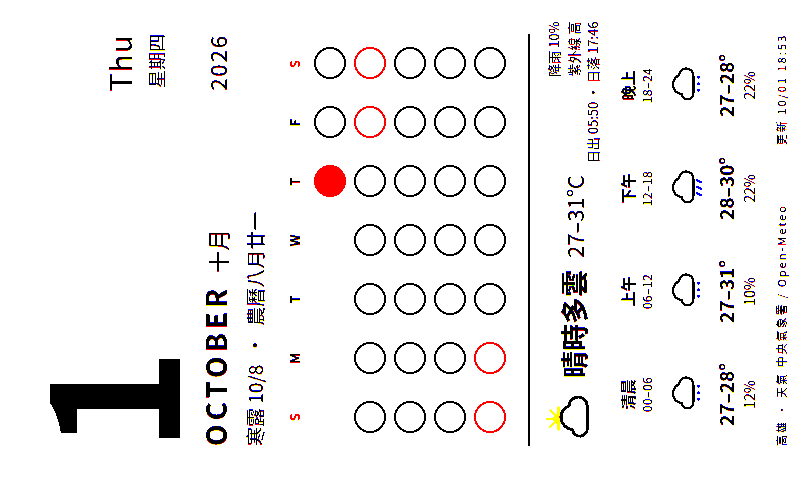
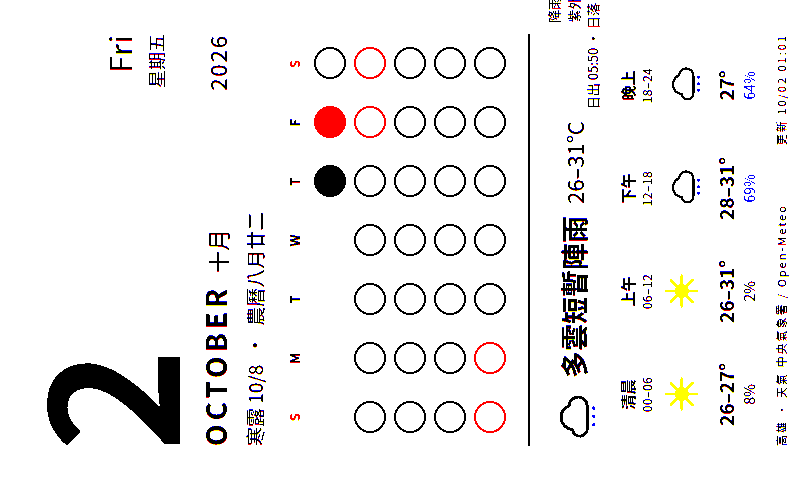
deploy: cf7d1051eb6821bc691ba0ade4beb12cdf9fe0ef

diff --git a/calendar.html b/calendar.html
@@ -47,16 +47,16 @@
 </style></head>
 <body><div class="page">
   <div class="head">
-    <div class="num">1</div>
-    <div class="wd"><div class="en">Thu</div><div class="zh">星期四</div></div>
+    <div class="num">2</div>
+    <div class="wd"><div class="en">Fri</div><div class="zh">星期五</div></div>
   </div>
   <div class="month"><span class="en">OCTOBER</span><span class="zh">十月</span><span class="yr">2026</span></div>
-  <div class="today"><span class="lunar">寒露 10/8</span><span>·</span><span class="lunar">農曆八月廿一</span></div>
-  <div class="grid"><div class="h we">S</div><div class="h">M</div><div class="h">T</div><div class="h">W</div><div class="h">T</div><div class="h">F</div><div class="h we">S</div><div class="dot empty"></div><div class="dot empty"></div><div class="dot empty"></div><div class="dot empty"></div><div class="dot now" title="1"></div><div class="dot future" title="2"></div><div class="dot future" title="3"></div><div class="dot future" title="4"></div><div class="dot future" title="5"></div><div class="dot future" title="6"></div><div class="dot future" title="7"></div><div class="dot future" title="8"></div><div class="dot future hol" title="9"></div><div class="dot future hol" title="10"></div><div class="dot future" title="11"></div><div class="dot future" title="12"></div><div class="dot future" title="13"></div><div class="dot future" title="14"></div><div class="dot future" title="15"></div><div class="dot future" title="16"></div><div class="dot future" title="17"></div><div class="dot future" title="18"></div><div class="dot future" title="19"></div><div class="dot future" title="20"></div><div class="dot future" title="21"></div><div class="dot future" title="22"></div><div class="dot future" title="23"></div><div class="dot future" title="24"></div><div class="dot future hol" title="25"></div><div class="dot future hol" title="26"></div><div class="dot future" title="27"></div><div class="dot future" title="28"></div><div class="dot future" title="29"></div><div class="dot future" title="30"></div><div class="dot future" title="31"></div></div>
+  <div class="today"><span class="lunar">寒露 10/8</span><span>·</span><span class="lunar">農曆八月廿二</span></div>
+  <div class="grid"><div class="h we">S</div><div class="h">M</div><div class="h">T</div><div class="h">W</div><div class="h">T</div><div class="h">F</div><div class="h we">S</div><div class="dot empty"></div><div class="dot empty"></div><div class="dot empty"></div><div class="dot empty"></div><div class="dot past" title="1"></div><div class="dot now" title="2"></div><div class="dot future" title="3"></div><div class="dot future" title="4"></div><div class="dot future" title="5"></div><div class="dot future" title="6"></div><div class="dot future" title="7"></div><div class="dot future" title="8"></div><div class="dot future hol" title="9"></div><div class="dot future hol" title="10"></div><div class="dot future" title="11"></div><div class="dot future" title="12"></div><div class="dot future" title="13"></div><div class="dot future" title="14"></div><div class="dot future" title="15"></div><div class="dot future" title="16"></div><div class="dot future" title="17"></div><div class="dot future" title="18"></div><div class="dot future" title="19"></div><div class="dot future" title="20"></div><div class="dot future" title="21"></div><div class="dot future" title="22"></div><div class="dot future" title="23"></div><div class="dot future" title="24"></div><div class="dot future hol" title="25"></div><div class="dot future hol" title="26"></div><div class="dot future" title="27"></div><div class="dot future" title="28"></div><div class="dot future" title="29"></div><div class="dot future" title="30"></div><div class="dot future" title="31"></div></div>
   <div class="wx"><div class="line">
-    <div class="wxhead"><svg viewBox="0 0 64 68" xmlns="http://www.w3.org/2000/svg"><g transform="translate(12 -4) scale(.6)"><circle cx="32" cy="32" r="11" fill="#f5c400"/><g stroke="#f5c400" stroke-width="4" stroke-linecap="round"><line x1="32" y1="32" x2="32" y2="8" transform="rotate(0 32 32)"/><line x1="32" y1="32" x2="32" y2="8" transform="rotate(45 32 32)"/><line x1="32" y1="32" x2="32" y2="8" transform="rotate(90 32 32)"/><line x1="32" y1="32" x2="32" y2="8" transform="rotate(135 32 32)"/><line x1="32" y1="32" x2="32" y2="8" transform="rotate(180 32 32)"/><line x1="32" y1="32" x2="32" y2="8" transform="rotate(225 32 32)"/><line x1="32" y1="32" x2="32" y2="8" transform="rotate(270 32 32)"/><line x1="32" y1="32" x2="32" y2="8" transform="rotate(315 32 32)"/></g></g><path d="M20 50h26a11 11 0 0 0 1-22 15 15 0 0 0-29 4 9 9 0 0 0 2 18z" fill="#fff" stroke="#000" stroke-width="3.5" stroke-linejoin="round"/></svg><span class="desc">晴時多雲</span><span class="temp">27–31°C</span>
-      <div class="meta">降雨 10%<br>紫外線 高<br>日出 05:50 · 日落 17:46</div></div>
-    <div class="slots"><div class="slot"><div class="n">清晨</div><div class="hrs">00–06</div><svg viewBox="0 0 64 68" xmlns="http://www.w3.org/2000/svg"><path d="M20 50h26a11 11 0 0 0 1-22 15 15 0 0 0-29 4 9 9 0 0 0 2 18z" fill="#fff" stroke="#000" stroke-width="3.5" stroke-linejoin="round"/><g fill="#0040ff"><circle cx="24" cy="58" r="2.2"/><circle cx="34" cy="58" r="2.2"/><circle cx="44" cy="58" r="2.2"/></g></svg><div class="t">27–28°</div><div class="p dry">12%</div></div><div class="slot"><div class="n">上午</div><div class="hrs">06–12</div><svg viewBox="0 0 64 68" xmlns="http://www.w3.org/2000/svg"><path d="M20 50h26a11 11 0 0 0 1-22 15 15 0 0 0-29 4 9 9 0 0 0 2 18z" fill="#fff" stroke="#000" stroke-width="3.5" stroke-linejoin="round"/><g fill="#0040ff"><circle cx="24" cy="58" r="2.2"/><circle cx="34" cy="58" r="2.2"/><circle cx="44" cy="58" r="2.2"/></g></svg><div class="t">27–31°</div><div class="p dry">10%</div></div><div class="slot"><div class="n">下午</div><div class="hrs">12–18</div><svg viewBox="0 0 64 68" xmlns="http://www.w3.org/2000/svg"><path d="M20 50h26a11 11 0 0 0 1-22 15 15 0 0 0-29 4 9 9 0 0 0 2 18z" fill="#fff" stroke="#000" stroke-width="3.5" stroke-linejoin="round"/><g stroke="#0040ff" stroke-width="3.5" stroke-linecap="round"><line x1="24" y1="55" x2="21" y2="62"/><line x1="34" y1="55" x2="31" y2="62"/><line x1="44" y1="55" x2="41" y2="62"/></g></svg><div class="t">28–30°</div><div class="p dry">22%</div></div><div class="slot"><div class="n">晚上</div><div class="hrs">18–24</div><svg viewBox="0 0 64 68" xmlns="http://www.w3.org/2000/svg"><path d="M20 50h26a11 11 0 0 0 1-22 15 15 0 0 0-29 4 9 9 0 0 0 2 18z" fill="#fff" stroke="#000" stroke-width="3.5" stroke-linejoin="round"/><g fill="#0040ff"><circle cx="24" cy="58" r="2.2"/><circle cx="34" cy="58" r="2.2"/><circle cx="44" cy="58" r="2.2"/></g></svg><div class="t">27–28°</div><div class="p dry">22%</div></div></div>
+    <div class="wxhead"><svg viewBox="0 0 64 68" xmlns="http://www.w3.org/2000/svg"><path d="M20 50h26a11 11 0 0 0 1-22 15 15 0 0 0-29 4 9 9 0 0 0 2 18z" fill="#fff" stroke="#000" stroke-width="3.5" stroke-linejoin="round"/><g fill="#0040ff"><circle cx="24" cy="58" r="2.2"/><circle cx="34" cy="58" r="2.2"/><circle cx="44" cy="58" r="2.2"/></g></svg><span class="desc">多雲短暫陣雨</span><span class="temp">26–31°C</span>
+      <div class="meta">降雨 30%<br>紫外線 高<br>日出 05:50 · 日落 17:45</div></div>
+    <div class="slots"><div class="slot"><div class="n">清晨</div><div class="hrs">00–06</div><svg viewBox="0 0 64 68" xmlns="http://www.w3.org/2000/svg"><circle cx="32" cy="32" r="11" fill="#f5c400"/><g stroke="#f5c400" stroke-width="4" stroke-linecap="round"><line x1="32" y1="32" x2="32" y2="8" transform="rotate(0 32 32)"/><line x1="32" y1="32" x2="32" y2="8" transform="rotate(45 32 32)"/><line x1="32" y1="32" x2="32" y2="8" transform="rotate(90 32 32)"/><line x1="32" y1="32" x2="32" y2="8" transform="rotate(135 32 32)"/><line x1="32" y1="32" x2="32" y2="8" transform="rotate(180 32 32)"/><line x1="32" y1="32" x2="32" y2="8" transform="rotate(225 32 32)"/><line x1="32" y1="32" x2="32" y2="8" transform="rotate(270 32 32)"/><line x1="32" y1="32" x2="32" y2="8" transform="rotate(315 32 32)"/></g></svg><div class="t">26–27°</div><div class="p dry">8%</div></div><div class="slot"><div class="n">上午</div><div class="hrs">06–12</div><svg viewBox="0 0 64 68" xmlns="http://www.w3.org/2000/svg"><circle cx="32" cy="32" r="11" fill="#f5c400"/><g stroke="#f5c400" stroke-width="4" stroke-linecap="round"><line x1="32" y1="32" x2="32" y2="8" transform="rotate(0 32 32)"/><line x1="32" y1="32" x2="32" y2="8" transform="rotate(45 32 32)"/><line x1="32" y1="32" x2="32" y2="8" transform="rotate(90 32 32)"/><line x1="32" y1="32" x2="32" y2="8" transform="rotate(135 32 32)"/><line x1="32" y1="32" x2="32" y2="8" transform="rotate(180 32 32)"/><line x1="32" y1="32" x2="32" y2="8" transform="rotate(225 32 32)"/><line x1="32" y1="32" x2="32" y2="8" transform="rotate(270 32 32)"/><line x1="32" y1="32" x2="32" y2="8" transform="rotate(315 32 32)"/></g></svg><div class="t">26–31°</div><div class="p dry">2%</div></div><div class="slot"><div class="n">下午</div><div class="hrs">12–18</div><svg viewBox="0 0 64 68" xmlns="http://www.w3.org/2000/svg"><path d="M20 50h26a11 11 0 0 0 1-22 15 15 0 0 0-29 4 9 9 0 0 0 2 18z" fill="#fff" stroke="#000" stroke-width="3.5" stroke-linejoin="round"/><g fill="#0040ff"><circle cx="24" cy="58" r="2.2"/><circle cx="34" cy="58" r="2.2"/><circle cx="44" cy="58" r="2.2"/></g></svg><div class="t">28–31°</div><div class="p ">69%</div></div><div class="slot"><div class="n">晚上</div><div class="hrs">18–24</div><svg viewBox="0 0 64 68" xmlns="http://www.w3.org/2000/svg"><path d="M20 50h26a11 11 0 0 0 1-22 15 15 0 0 0-29 4 9 9 0 0 0 2 18z" fill="#fff" stroke="#000" stroke-width="3.5" stroke-linejoin="round"/><g fill="#0040ff"><circle cx="24" cy="58" r="2.2"/><circle cx="34" cy="58" r="2.2"/><circle cx="44" cy="58" r="2.2"/></g></svg><div class="t">27°</div><div class="p ">64%</div></div></div>
   </div></div>
-  <div class="foot"><span>高雄 · 天氣 中央氣象署 / Open-Meteo</span><span>更新 10/01 18:53</span></div>
+  <div class="foot"><span>高雄 · 天氣 中央氣象署 / Open-Meteo</span><span>更新 10/02 01:01</span></div>
 </div></body></html>
